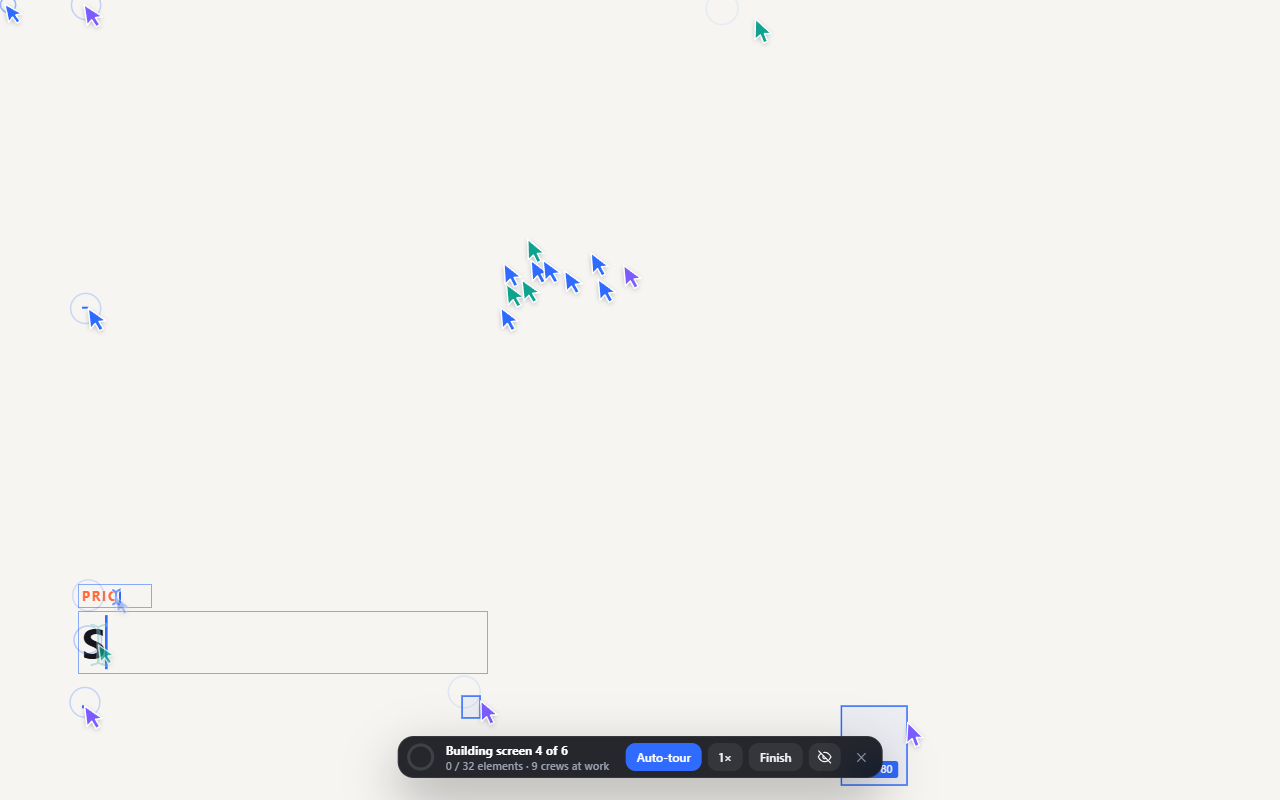
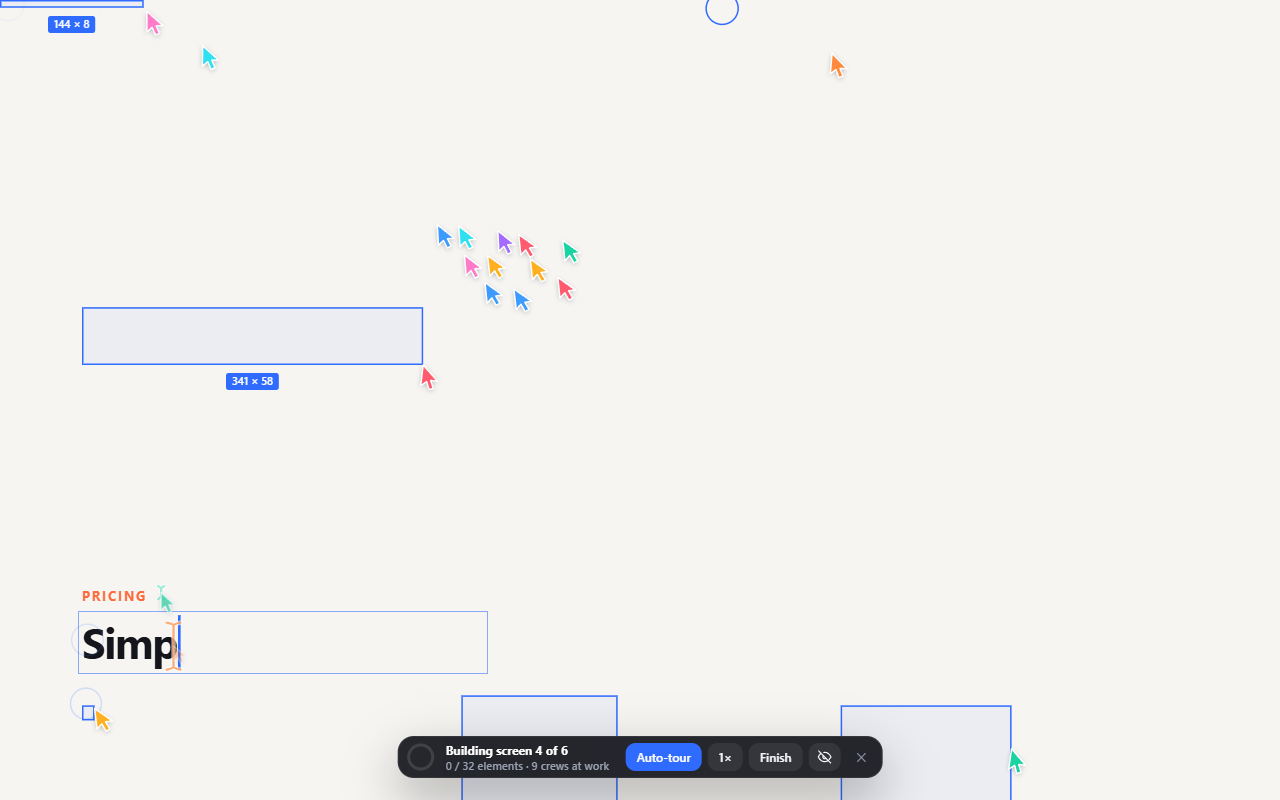
Multicolour pointers again, and a quicker pace
- Pointers use the full colour palette again; only the drawing marks
  (outlines, handles, size badges, caret, scan line) stay one selection blue
- Travel about 25% quicker, shapes dragged out a little faster, livelier
  free flight

diff --git a/extension/swarmline.js b/extension/swarmline.js
@@ -29,7 +29,6 @@
   // toolbar placement for this tab only: kept in memory, never stored
   const prefs = { hudHidden: false, hudPos: null };
   const INK = "#2F6BFF"; // the one colour every drawing mark uses: a design tool's selection blue
-  const CURSORS = ["#2F6BFF", "#7C5CFF", "#2F6BFF", "#0FA38F"]; // pointers: mostly blue, two quiet accents
   const PALETTE = ["#FF5A6E", "#FFB020", "#19D3A2", "#3D9BFF", "#A46BFF", "#FF7AC8", "#2FE0F0", "#FF8A3D"];
 
   const SKIP = new Set([
@@ -1058,7 +1057,7 @@ canvas.off{pointer-events:none}
         return false;
       }
       if (u.step === 2) {
-        const dur = 0.32 + 0.16 * Math.log2(1 + Math.hypot(u.w, u.h) / 90);
+        const dur = 0.26 + 0.13 * Math.log2(1 + Math.hypot(u.w, u.h) / 90);
         u.p = clamp(u.st / dur, 0, 1);
         if (u.p >= 1) {
           u.step = 3;
@@ -1158,7 +1157,7 @@ canvas.off{pointer-events:none}
       for (let i = 0; i < n; i++) {
         const a = (i / n) * Math.PI * 2;
         this.nibs.push({
-          i, unit: null, role: 0, attached: false, vis: 0, color: CURSORS[i % CURSORS.length], press: 0,
+          i, unit: null, role: 0, attached: false, vis: 0, color: PALETTE[i % PALETTE.length], press: 0,
           x: this.W / 2 + Math.cos(a) * 6, y: this.H / 2 + Math.sin(a) * 6,
           vx: 0, vy: 0, ang: 0, tool: 0, goal: null, move: null, hand: i % 2 ? 1 : -1,
           seed: Math.random() * Math.PI * 2, born: 0.55 + i * 0.02, size: 1,
@@ -1215,8 +1214,8 @@ canvas.off{pointer-events:none}
       const tx = cx + px * ct - py * stl;
       const ty = cy + px * stl + py * ct;
       // a spring-damper towards that point, plus wander and personal space
-      const kS = after ? 7 : 3.6;
-      const kD = after ? 3.4 : 2.3;
+      const kS = after ? 8.5 : 4.6;
+      const kD = after ? 3.8 : 2.6;
       let ax = (tx - n.x) * kS - n.pvx * kD;
       let ay = (ty - n.y) * kS - n.pvy * kD;
       n.wa += (Math.random() - 0.5) * dt * 5;
@@ -1243,7 +1242,7 @@ canvas.off{pointer-events:none}
       n.pvx += ax * dt;
       n.pvy += ay * dt;
       const vm = Math.hypot(n.pvx, n.pvy);
-      const vmax = after ? 1800 : 820;
+      const vmax = after ? 2100 : 1050;
       if (vm > vmax) {
         n.pvx *= vmax / vm;
         n.pvy *= vmax / vm;
@@ -1387,7 +1386,7 @@ canvas.off{pointer-events:none}
             const bend = d * (0.08 + Math.random() * 0.14) * (Math.random() < 0.8 ? n.hand : -n.hand);
             n.move = d < 4 ? null : {
               sx: n.x, sy: n.y, t: 0,
-              dur: ((0.42 + 0.2 * Math.log2(1 + d / 50)) * (0.9 + Math.random() * 0.25)) / pace,
+              dur: ((0.32 + 0.15 * Math.log2(1 + d / 50)) * (0.9 + Math.random() * 0.25)) / pace,
               bx: (-dy / (d || 1)) * bend, by: (dx / (d || 1)) * bend,
             };
             n.attached = false;
